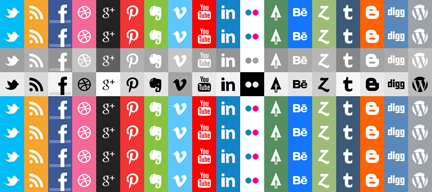
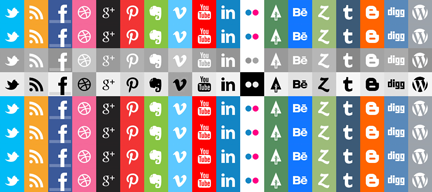
some hack device styling for mobile and small screen sizes
some hack device styling for mobile and small screen sizes

Changed region(s): [[0.9329, 0.25, 1.0, 0.5], [0.2106, 0.25, 0.3009, 0.375], [0.2407, 0.4375, 0.2708, 0.4688]]

diff --git a/css/common.css b/css/common.css
@@ -31,26 +31,88 @@ html, body, root {
     padding: 0;
     border: none 0px;
     box-sizing: border-box;
+    min-width: 750px;
 }
 
 body {
     position: absolute;
     font-family: sans-serif;
     border: none 0px;
-    overflow: hidden;
+    overflow: auto;
     width: 100%;
     max-width: 100%;
-    min-width: 100%;
+    min-width: 750px;
     height: 100%;
     max-height: 100%;
     min-height: 100%;
+    transition: 500ms zoom;
+    -webkit-transition: 500ms zoom;
+    -moz-transition: 500ms zoom;
+    -o-transition: 500ms zoom;
+    -ms-transition: 500ms zoom;
+/*
     background-color: white;
-    background-image: url(compass.png);
+    background-image: url(signature-watermark.png);
     background-repeat: no-repeat;
+*/
+/*
+    background-image: url(compass.png);
     background-position: 50% -60%;
     background-size: 200px 240px;
+*/
 }
 
+@media all and (max-width: 750px) {
+    body {
+        background-color: lightcyan !important;
+        zoom: 80%;
+    }
+}
+@media all and (max-width: 640px) {
+    body {
+        background-color: lightblue !important;
+        zoom: 70%;
+    }
+}
+@media all and (max-width: 568px) {
+    body {
+        background-color: lightgreen !important;
+        zoom: 60%;
+    }
+}
+@media all and (max-width: 480px) {
+    body {
+        background-color: lightyellow !important;
+        zoom: 50%;
+    }
+}
+@media all and (max-width: 750px) {
+    body {
+        background-color: lightpink !important;
+        zoom: 40%;
+    }
+    header, footer {
+        padding: 0 10px !important;
+    }
+    main {
+        padding: 100px 10px 28px !important;
+    }
+}
+
+
+body::before {
+    content: "";
+    background-image: url(signature-watermark.png);
+    background-repeat: no-repeat;
+    background-size: contain;
+    background-position: center 60%;
+    opacity: 0.125;
+    top: 0;
+    left: 0;
+    position: absolute;
+    width: 100%;
+    height: 100%;
+}
 main, header, footer {
     position: absolute;
     width: 100%;
@@ -100,14 +162,13 @@ menu {
     margin: 0;
 }
 menu>li {
-    cursor: pointer;
     list-style: none;
     display: inline-block;
     margin: 0;
-    padding: 2px 5px;
+    padding: 2px 15px;
     box-sizing: border-box;
 }
-menu>li>* { cursor: pointer; }
+menu>li, menu>li>* { cursor: pointer; }
 menu.horizontal-menu {
     text-align: center;
     margin-before: 0px;
@@ -130,6 +191,7 @@ menu>li.social-icon-64x64y {
     margin-left: 5px;
     margin-right: 5px;
     border-radius: 3px;
+    padding: 0px;
 }
 menu>li.social-icon-16x16y:action, menu>li.social-icon-16x16y.active,
 menu>li.social-icon-24x24y:action, menu>li.social-icon-24x24y.active,
@@ -189,6 +251,10 @@ menu>li.social-icon-64x64y:hover {
     background-position-y: -128px;
 }
 
+header menu>li:hover, header #header-logo:hover {
+    background-color: rgba(240,240,240,0.2);
+}
+
 #header-menu {
     font-size: 15pt;
     height: 50px;
@@ -199,25 +265,36 @@ menu>li.social-icon-64x64y:hover {
     position: relative;
     height: 0px;
     overflow: hidden;
-    background-image: url(header-logo.png);
-    background-repeat: no-repeat;
-    background-position: left top;
     transition: 500ms height;
     -webkit-transition: 500ms height;
     -moz-transition: 500ms height;
     -o-transition: 500ms height;
     -ms-transition: 500ms height;
 }
-
+#header-logo {
+    display: inline-block;
+    background-image: url(signature-white.png);
+    background-size: cover;
+    background-repeat: no-repeat;
+    background-position: center;
+    width: 200px;
+    height: 72px;
+    cursor: pointer;
+}
 menu#header-expanded-menu {
     position: absolute;
+    display: inline-block;
+    white-space: nowrap;
     right: 0px;
 }
 menu#header-expanded-menu>li {
-    margin: 0 10px;
+    padding: 2px 15px;
 }
 menu#header-expanded-menu>li:last-child {
     margin: 0 0 0 10px;
+}
+#header-expanded-menu>li:hover {
+    color: #ff77dd;
 }
 
 body.expand-header>header {
@@ -233,11 +310,15 @@ body.expand-header #header-expanded-container {
 #header-subscribe-container {
     position: absolute;
     display: inline-block;
+    white-space: nowrap;
     right: 80px;
     bottom: 0px;
 }
 #header-subscribe-container>* {
     margin-left: 5px;
+}
+#header-subscribe-container>input {
+    width: 110px;
 }
 #header-subscribe-container>button {
     border: none 0px;
@@ -281,7 +362,8 @@ page {
     display: inline-block;
     width: 100%;
     height: 100%;
-    overflow: hidden;
+    overflow: auto;
+    white-space: initial;
     vertical-align: top;
     transition: 500ms all;
     -webkit-transition: 500ms all;
@@ -290,27 +372,26 @@ page {
     -ms-transition: 500ms all;
 }
 
-.box-1-columns, .box-2-columns {
-    white-space: pre-line;
+/* Let's get this party started */
+::-webkit-scrollbar {
+    width: 8px;
+    height: 8px;
 }
-.box-1-columns {
-    padding: 5px 10px;
+ 
+/* Track */
+::-webkit-scrollbar-track {
+    -webkit-box-shadow: inset 0 0 2px rgba(0,0,0,0.3); 
+    -webkit-border-radius: 4px;
+    border-radius: 4px;
 }
-.box-2-columns {
-    padding: 5px 10px;
+ 
+/* Handle */
+::-webkit-scrollbar-thumb {
+    -webkit-border-radius: 4px;
+    border-radius: 4px;
+    background: rgba(239,239,239,0.8); 
+    -webkit-box-shadow: inset 0 0 6px rgba(0,0,0,0.5); 
 }
-.column-box {
-    position: relative;
-    display: inline-block;
-    box-sizing: border-box;
-    white-space: pre-line;
-    border: solid 1px darkgray;
-    padding: 10px;
-    margin: 10px 1%;
-}
-.box-1-columns>.column-box {
-    width: 98%;
-}
-.box-2-columns>.column-box {
-    width: 48%;
+::-webkit-scrollbar-thumb:window-inactive {
+	background: rgba(239,239,239,0.4); 
 }

diff --git a/js/common.js b/js/common.js
@@ -40,6 +40,7 @@
             var elt, i, t;
             (_head = document.querySelector( 'body>header' )).appendChild( _headMenu = _createMenu( t = require( 'data/header-menu.json' ) ) );
             _head.appendChild( elt = document.createElement( 'div' ) ).id = 'header-expanded-container';
+            elt.appendChild( document.createElement( 'div' ) ).id = 'header-logo';
             elt.appendChild( _headExpandMenu = _createMenu( require( 'data/header-expanded-menu.json' ) ) );
             _head.appendChild( elt = document.createElement( 'div' ) ).id = 'header-subscribe-container';
             elt.appendChild( _headSocialMenu = _createMenu( require( 'data/header-social-menu.json' ) ) );
@@ -57,15 +58,28 @@
                 document.body.classList.toggle( 'expand-header' );
             }, false );
             
-            var tempList = ['simple', 'template1', 'template2', 'template3'],
+            var tempList = ['simple', 'template1', 'template2', 'template3', 'gallery'],
                 k;
-            for ( i = 0; i < 4; i++ ) {
+            for ( i = 0; i < tempList.length; i++ ) {
                 _pageManager.addPage( k = tempList[i%tempList.length], {
                     title: k,
-                    content: "page",
+                    message: "this is a message",
                     index: i + 1,
-                    "main-box": "main-box",
-                    "items": [ "box 1", "box 2", "box 3", "box 4", ]
+                    "main-box": "main content",
+                    "items": [
+                        { content: "item 1 summary" },
+                        { content: "item 2 summary" },
+                        { content: "item 3 summary" },
+                        { content: "item 4 summary" },
+                        { content: "item 5 summary" },
+                        { content: "item 6 summary" },
+                        { content: "item 7 summary" },
+                        { content: "item 8 summary" },
+                        { content: "item 9 summary" },
+                        { content: "item 10 summary" },
+                        { content: "item 11 summary" },
+                        { content: "item 12 summary" }
+                    ]
                 } );
                 _foot.appendChild( t = document.createElement( 'button' ) ).textContent = k;
                 t.pageIndex = i;
@@ -77,6 +91,7 @@
             
             _resize();
             window.addEventListener( 'resize', _resize, false );
+            window.addEventListener( 'orientationchange', _resize, false );
         },
         _resize = function () {
             var wide = window.innerWidth,

diff --git a/css/templates.css b/css/templates.css
@@ -1,5 +1,4 @@
-<!DOCTYPE html>
-<!--
+/*
 The MIT License
 
 Copyright 2015 Erich.
@@ -21,23 +20,45 @@ AUTHORS OR COPYRIGHT HOLDERS BE LIABLE FOR ANY CLAIM, DAMAGES OR OTHER
 LIABILITY, WHETHER IN AN ACTION OF CONTRACT, TORT OR OTHERWISE, ARISING FROM,
 OUT OF OR IN CONNECTION WITH THE SOFTWARE OR THE USE OR OTHER DEALINGS IN
 THE SOFTWARE.
--->
-<html>
-    <head>
-        <title>Eda Sofia</title>
-        <meta charset="UTF-8">
-        <!--meta name="viewport" content="width=device-width, initial-scale=1.0"-->
-        <meta name="viewport" content="width=device-width, initial-scale=1, minimum-scale=0.25, maximum-scale=2">
-        <script src='js/common.js'></script>
-        <script src='js/libs/mustache.js/mustache.js'></script>
-        <link href='css/common.css' rel='stylesheet' type='text/css'>
-        <link href='css/templates.css' rel='stylesheet' type='text/css'>
-        <link href='css/index.css' rel='stylesheet' type='text/css'>
-        <script>
-window.addEventListener( 'load', function () {
-    Resize.init();
-}, false );
-        </script>
-    </head>
-    <body><main></main><header></header><footer><button id="footer-toggle-header">toggle header</button></footer></body>
-</html>
+*/
+/* 
+    Created on : Jan 21, 2015, 9:23:45 AM
+    Author     : Erich
+*/
+
+.box-1-columns,
+.box-2-columns,
+.box-3-columns,
+.window-box {
+    white-space: pre-line;
+}
+
+.column-box {
+    position: relative;
+    display: inline-block;
+    box-sizing: border-box;
+    white-space: pre-line;
+    border: solid 1px darkgray;
+    padding: 5px 10px;
+    margin: 10px 1%;
+}
+.box-1-columns>.column-box {
+    width: 98%;
+}
+.box-2-columns>.column-box {
+    width: 48%;
+}
+.box-3-columns>.column-box {
+    width: 31.33333%;
+}
+
+.window-box {
+    position: relative;
+    display: inline-block;
+    box-sizing: border-box;
+    width: 98%;
+    height: 320px;
+    border: solid 1px darkgray;
+    padding: 5px 10px;
+    margin: 10px 1%;
+}
